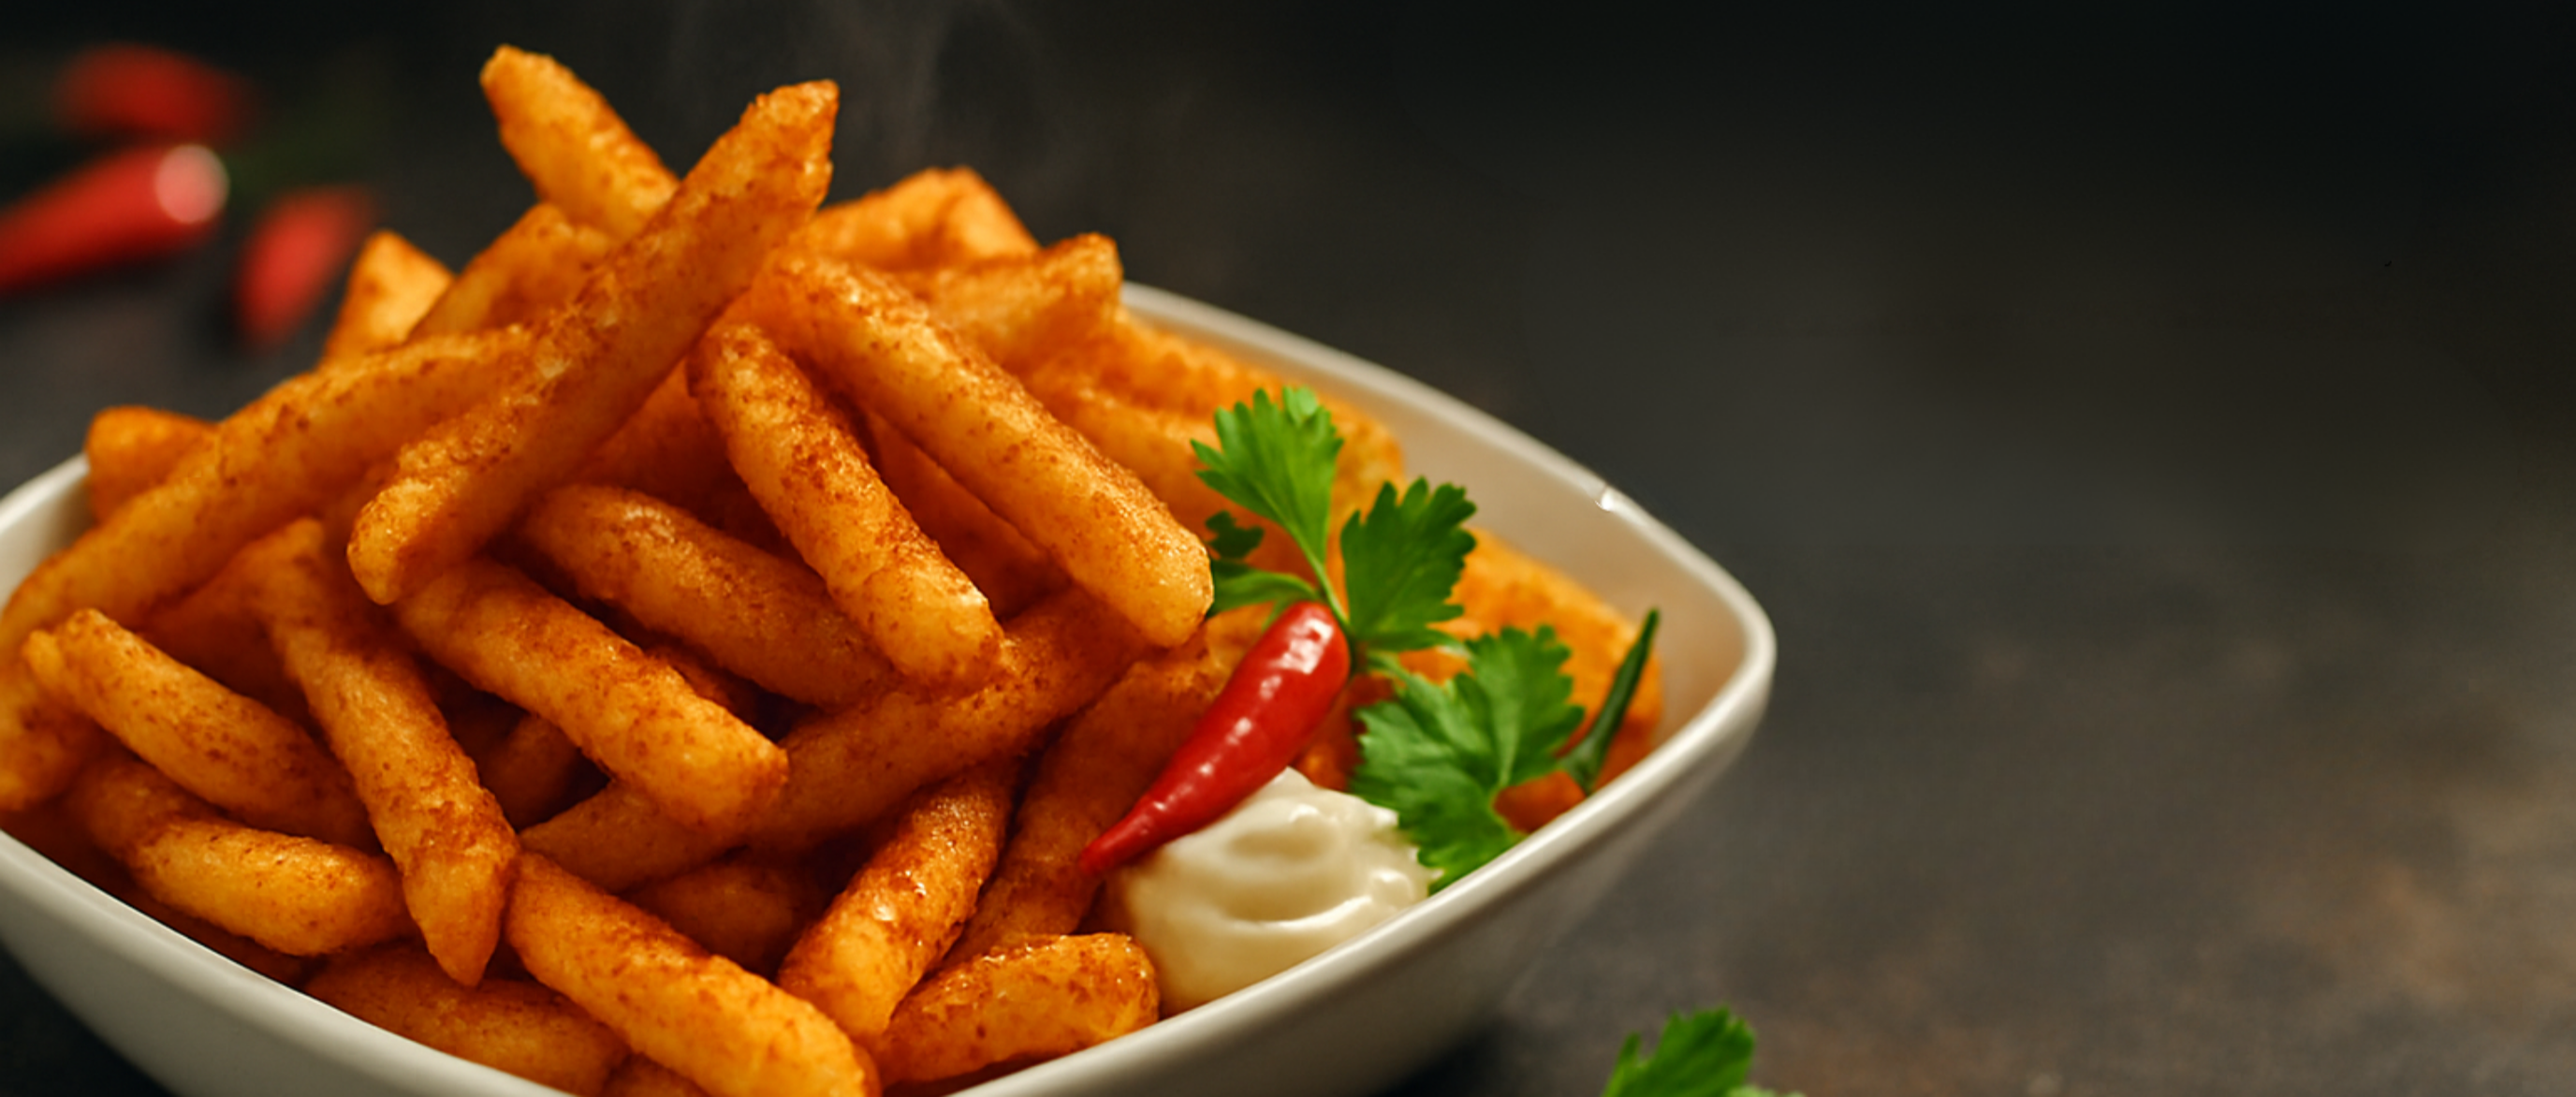
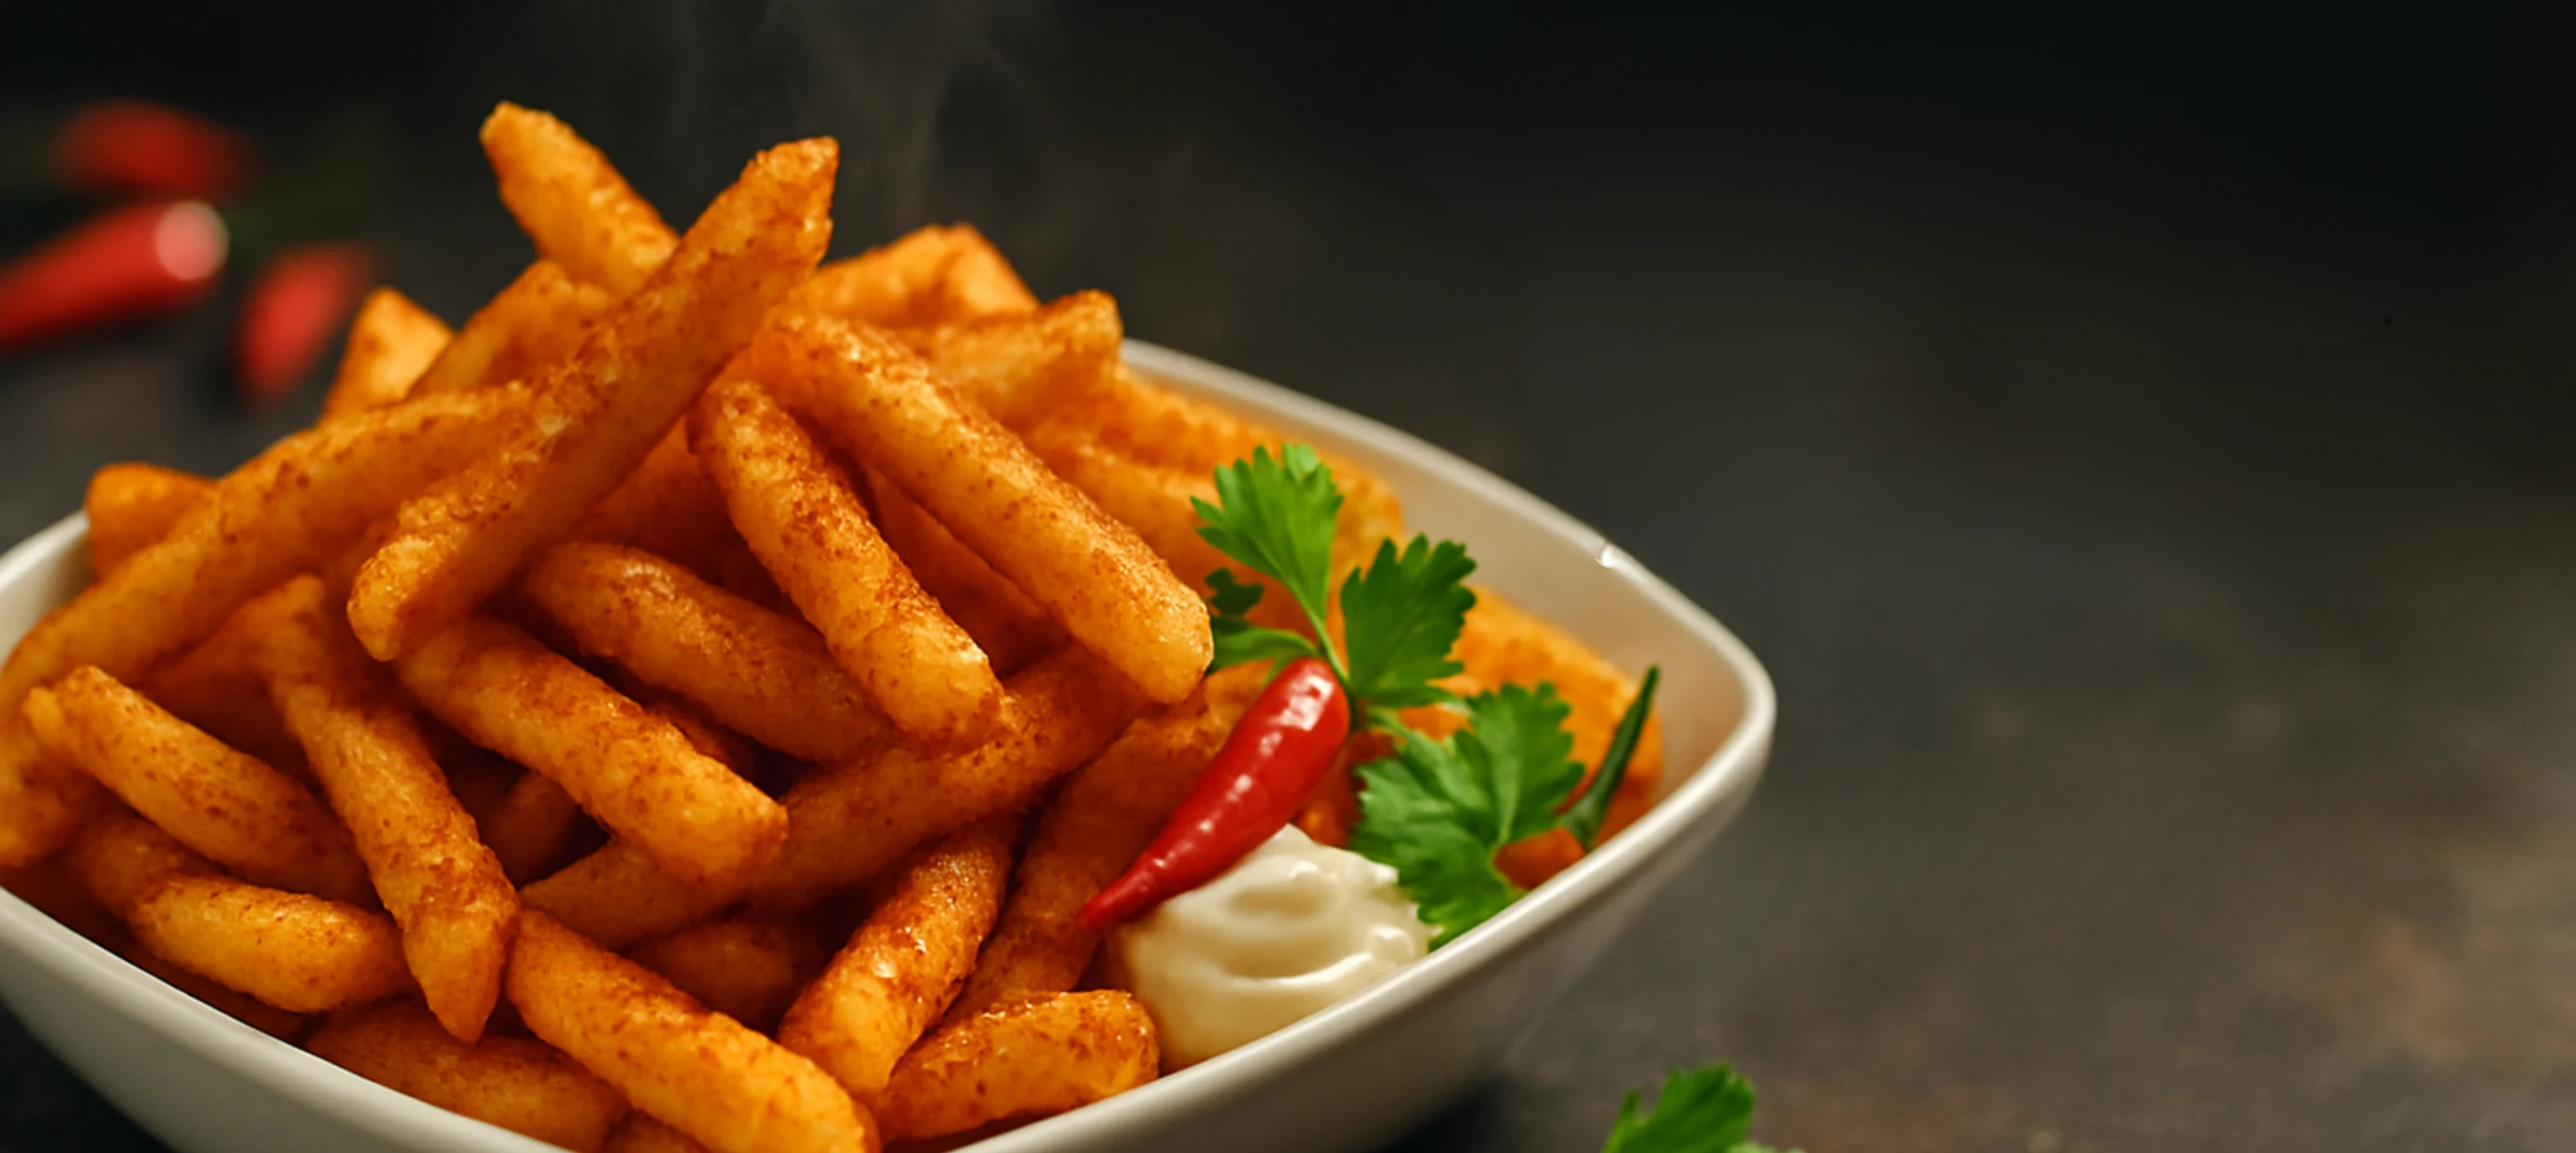
hero-images

diff --git a/frontend/src/components/HeroSection.tsx b/frontend/src/components/HeroSection.tsx
@@ -1,7 +1,8 @@
 import React from 'react';
 import { Swiper, SwiperSlide } from 'swiper/react';
-import { Autoplay, Navigation, Pagination } from 'swiper/modules';
+import { Autoplay, Pagination, EffectFade } from 'swiper/modules';
 import 'swiper/css';
+import 'swiper/swiper-bundle.css';
 import 'swiper/css/pagination';
 import { useNavigate } from "react-router-dom";
 
@@ -109,7 +110,7 @@ type Slide = {
 
 const slides: Slide[] = [
   {
-    image: '/hero/Maharashtrian1.PNG',
+    image: '/hero/Maharashtrian2.PNG',
     heading: (
       <div className="font-heading text-xl font-bold md:text-6xl text-transparent bg-clip-text bg-gradient-to-r from-orange-600 via-orange-500 to-orange-700 leading-tight">
         <span className="block">The Soul of</span>
@@ -137,7 +138,7 @@ const slides: Slide[] = [
     link: '/product/685d95f426012d91ad3aee72'
   },
   {
-    image: '/hero/Veg1.PNG',
+    image: '/hero/Veg2.PNG',
     heading: (
       <div className="font-heading text-xl font-bold md:text-6xl text-transparent bg-clip-text bg-gradient-to-r from-red-700 via-orange-500 to-red-400 leading-tight">
         <span className="block">Taste the Heart</span>
@@ -200,7 +201,7 @@ const slides: Slide[] = [
   },
 
   {
-    image: '/hero/Lebanese1.PNG',
+    image: '/hero/Lebanese2.PNG',
     heading: (
       <div className="font-heading text-xl font-bold md:text-6xl text-transparent bg-clip-text bg-gradient-to-r from-red-600 via-green-600 to-black leading-tight">
         <span className="block">Taste the</span>
@@ -397,19 +398,13 @@ const slides: Slide[] = [
 const HeroCarousel: React.FC = () => {
   return (
     <Swiper
-      modules={[Autoplay, Navigation, Pagination]}
-      //autoplay={{ delay: 7000 }}
+      modules={[Autoplay, Pagination, EffectFade]}
       loop
       slidesPerView={1}
-      navigation
-      pagination={{
-        type: 'fraction',
-        renderFraction: (currentClass:string, totalClass:string) => `
-          <span class="${currentClass} dark:text-white text-black font-semibold text-xs"></span>
-          /
-          <span class="${totalClass} dark:text-white text-black font-semibold text-xs"></span>
-        `,
-      }}
+      effect="fade"
+      fadeEffect={{ crossFade: true }}
+      autoplay={{ delay: 7000, disableOnInteraction: false, pauseOnMouseEnter: true, }}
+      pagination={{ clickable: true }}
     >
       {slides.map((slide, index) => (
         <SwiperSlide key={index}>
@@ -419,7 +414,6 @@ const HeroCarousel: React.FC = () => {
           </>
         </SwiperSlide>
       ))}
-
     </Swiper>
   );
 };

diff --git a/frontend/src/components/Testimonials.tsx b/frontend/src/components/Testimonials.tsx
@@ -1,5 +1,5 @@
 import React, { useEffect, useRef, useState } from 'react';
-import { FiChevronLeft, FiChevronRight } from 'react-icons/fi';
+//import { FiChevronLeft, FiChevronRight } from 'react-icons/fi';
 import { AiFillStar } from 'react-icons/ai';
 import AOS from 'aos';
 import 'aos/dist/aos.css';
